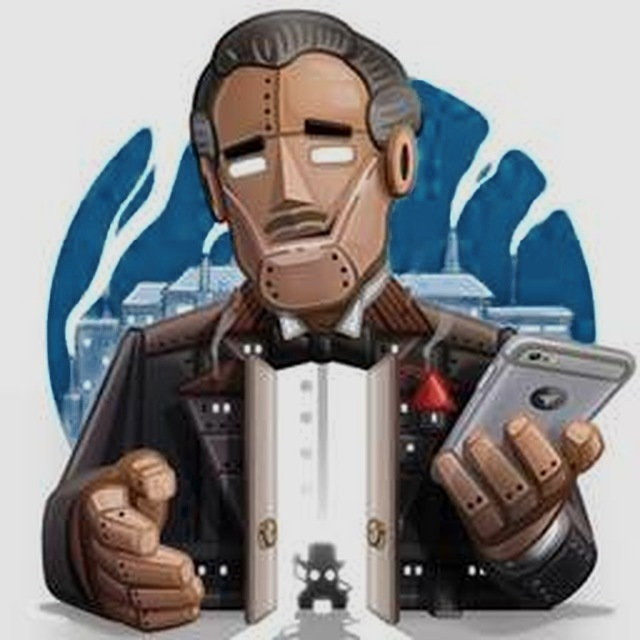
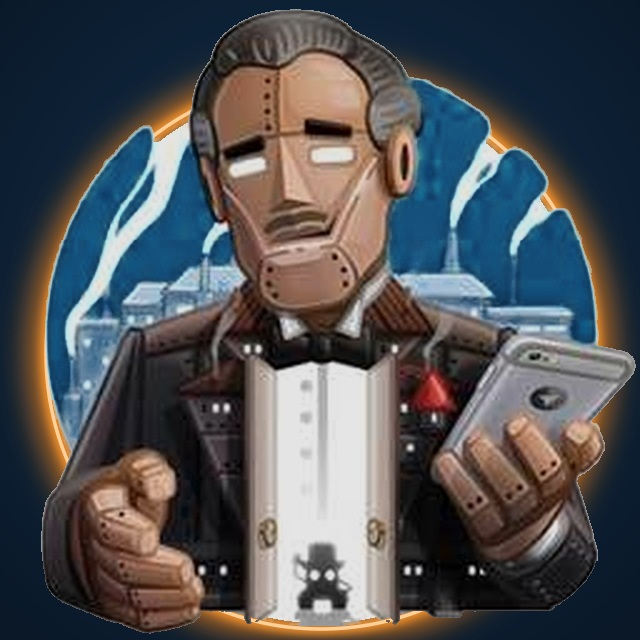
Мак: Аватар Telegram-канала, Аватар канала — Д&П.png, Аватар канала — амперсанд.png

diff --git a/08 Дизайн/Аватар Telegram-канала.md b/08 Дизайн/Аватар Telegram-канала.md
@@ -1,0 +1,18 @@
+---
+type: note
+status: active
+date: 2026-10-26
+---
+# Аватар Telegram-канала
+
+Аватар для корпоративного Telegram-канала «Деньги и Право», сделан 26.10.2026 по облику сайта: тёмно-синий фирменный `#082e50` с мягким светлым пятном, точечный узор как на первом экране сайта, тонкий круг и голубой блик (`#9cc3e6`, как у кнопок сайта). Буквы — шрифт Georgia, как в иконке сайта. Размер 1024 × 1024 px.
+
+| Амперсанд — как иконка сайта | Монограмма «Д&П» |
+|---|---|
+| ![[Аватар канала — амперсанд.png\|240]] | ![[Аватар канала — Д&П.png\|240]] |
+
+Какой вариант выбран и ссылка на канал — #уточнить.
+
+## Связи
+- [[Сайт]] — иконка сайта: белый «&» на тёмно-синем
+- [[11 Бот базы знаний]] — у бота свой аватар

diff --git a/11 Бот базы знаний/11 Бот базы знаний.md b/11 Бот базы знаний/11 Бот базы знаний.md
@@ -9,7 +9,7 @@ Telegram-бот **@DIP_knowledge_base_bot** для участников «Ден
 
 ![[Аватар бота.jpg|160]]
 
-Аватар — картинка Владимира, перекрашенная 26.10.2026: голубой круг стал тёмно-синим в цвет сайта, остальное на 10 % темнее.
+Аватар — картинка Владимира, перекрашенная 26.10.2026: тёмный фон, круг тёмно-синий в цвет сайта с ярким оранжевым свечением по краю, фигура на 10 % темнее. Ставится в @BotFather командой `/setuserpic`.
 
 ## Кто пользуется
 
